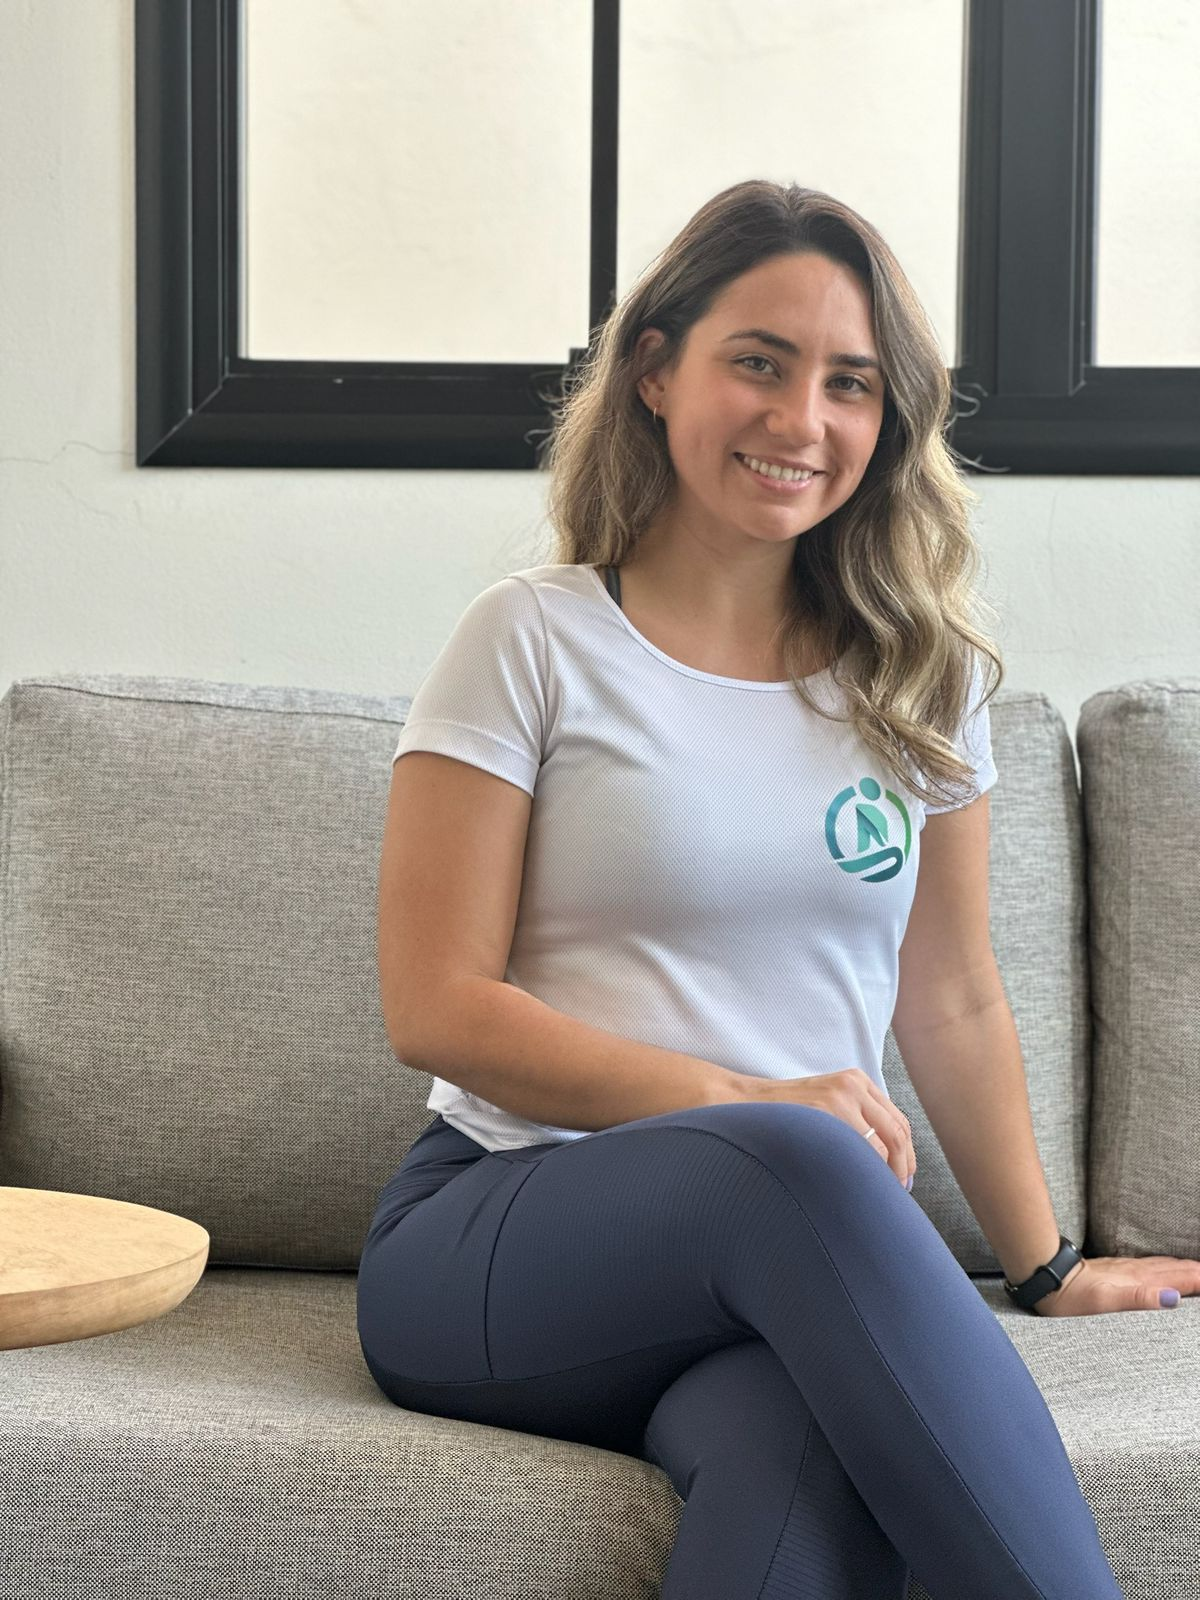
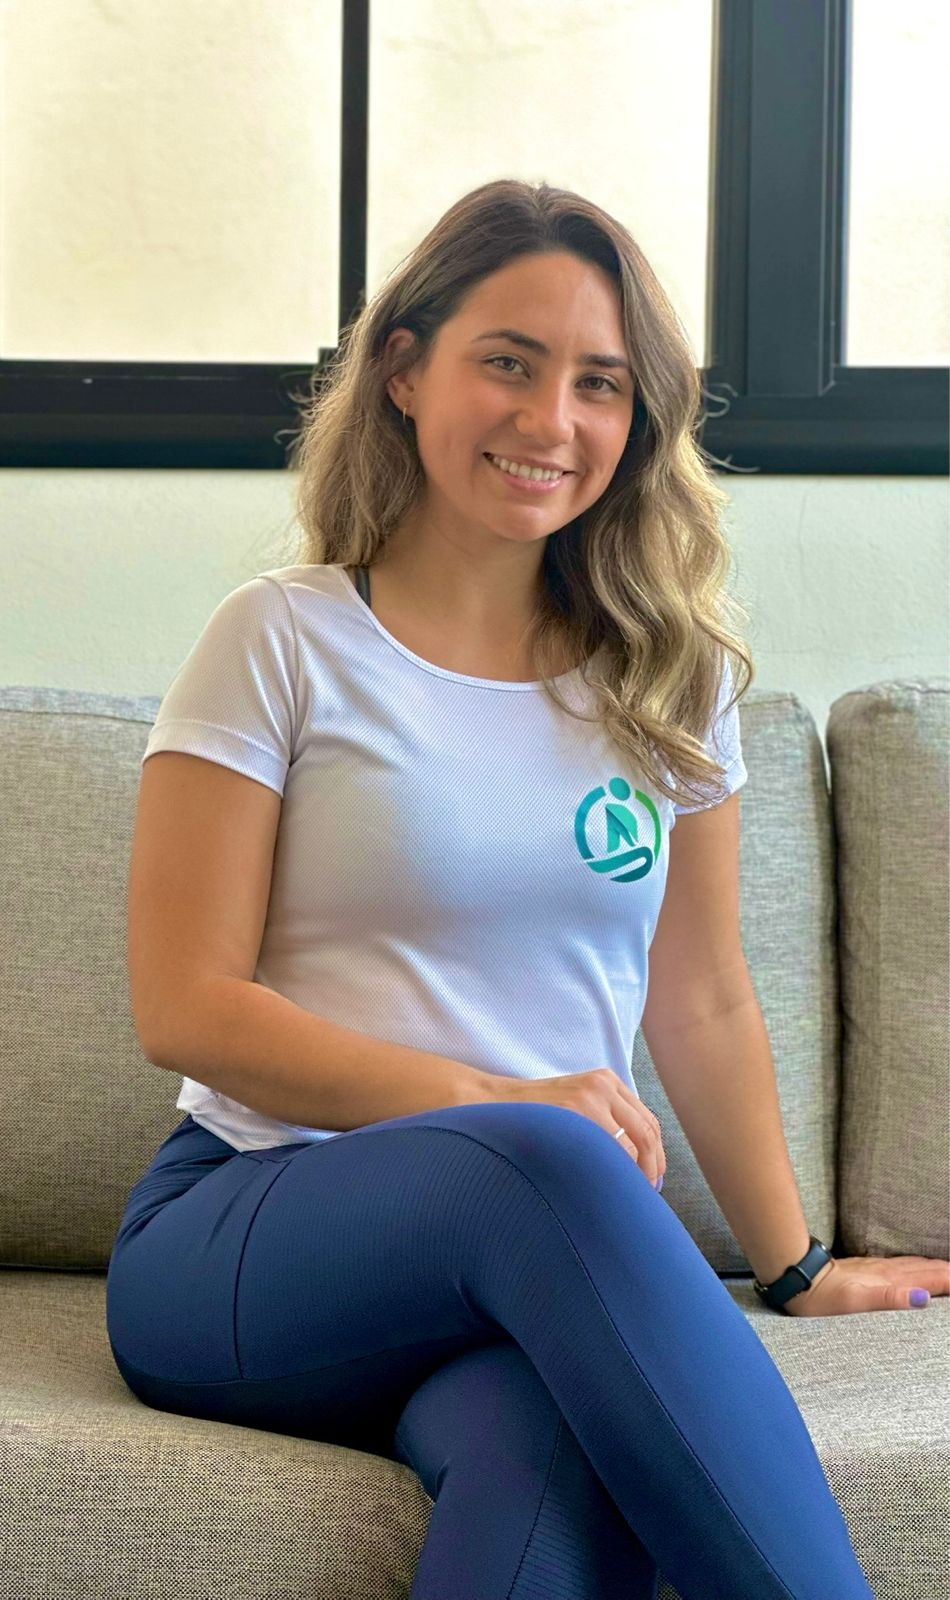
Ajuste nas imagens

diff --git a/quemsomos.html b/quemsomos.html
@@ -34,8 +34,8 @@
 
   <!-- Foto destaque -->
     <section class="max-w-5xl mx-auto px-6 py-12 text-center">
-    <img src="img/nathalia-viricio.PNG" alt="Nathalia e Viricio" 
-        class="w-72 h-72 object-cover rounded-full shadow-xl mx-auto mb-6">
+    <img src="img/nathalia-viricio.jpeg" alt="Nathalia e Viricio" 
+        class="w-72 h-72 object-cover rounded-full shadow-xl mx-auto mb-6 object-cover object-[center_1%]">
     <h1 class="text-4xl md:text-5xl font-bold text-[#0198AC]">Quem Somos</h1>
     </section>
 
@@ -51,7 +51,7 @@
     <!-- Nathalia -->
     <div class="flex flex-col md:flex-row items-center gap-8 my-10">
     <img src="img/nathalia.jpeg" alt="Foto de Nathalia Meira" 
-        class="w-80 h-80 object-cover rounded-full shadow-xl">
+        class="w-80 h-80 object-cover object-[center_20%] rounded-full shadow-xl">
     <p class="text-lg text-justify">
         <strong>Nathalia Meira</strong> é formada em Educação Física, especialista em promover saúde e qualidade de vida por meio do movimento. Sua experiência em Ginástica Laboral, Ergonomia e práticas de prevenção é conduzida sempre com leveza, proximidade e energia, inspirando colaboradores a enxergarem o cuidado consigo mesmos como parte essencial da rotina.
     </p>
@@ -60,7 +60,7 @@
     <!-- Viricio -->
     <div class="flex flex-col md:flex-row items-center gap-8 my-10">
     <img src="img/viricio.jpeg" alt="Foto de Viricio Carvalho" 
-        class="w-80 h-80 object-cover rounded-full shadow-xl md:order-2">
+        class="w-80 h-80 object-cover object-[center_20%] rounded-full shadow-xl md:order-2">
     <p class="text-lg text-justify">
         <strong>Viricio Carvalho</strong> soma sua vivência prática e estratégica em saúde corporativa, com um olhar atento para cada detalhe que faz a diferença no dia a dia das empresas. Seu compromisso é alinhar bem-estar e desempenho, trazendo soluções que evitam dores, afastamentos e transformam a cultura organizacional.
     </p>
